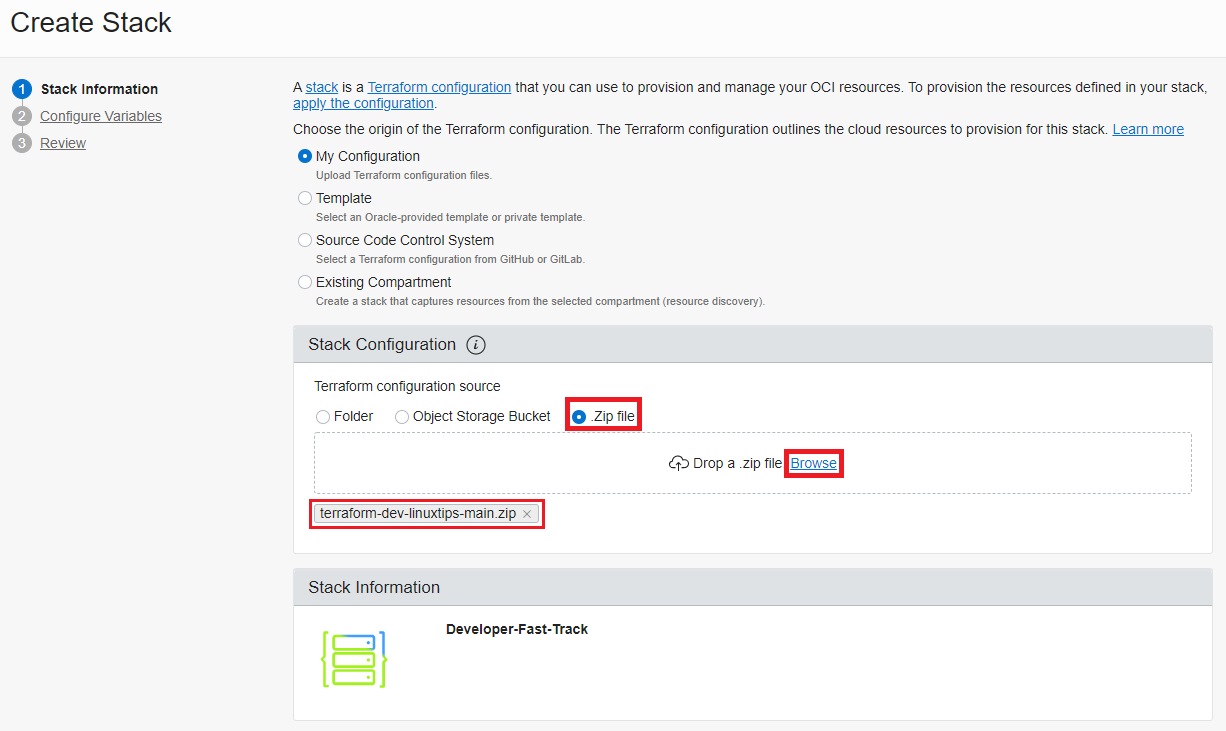
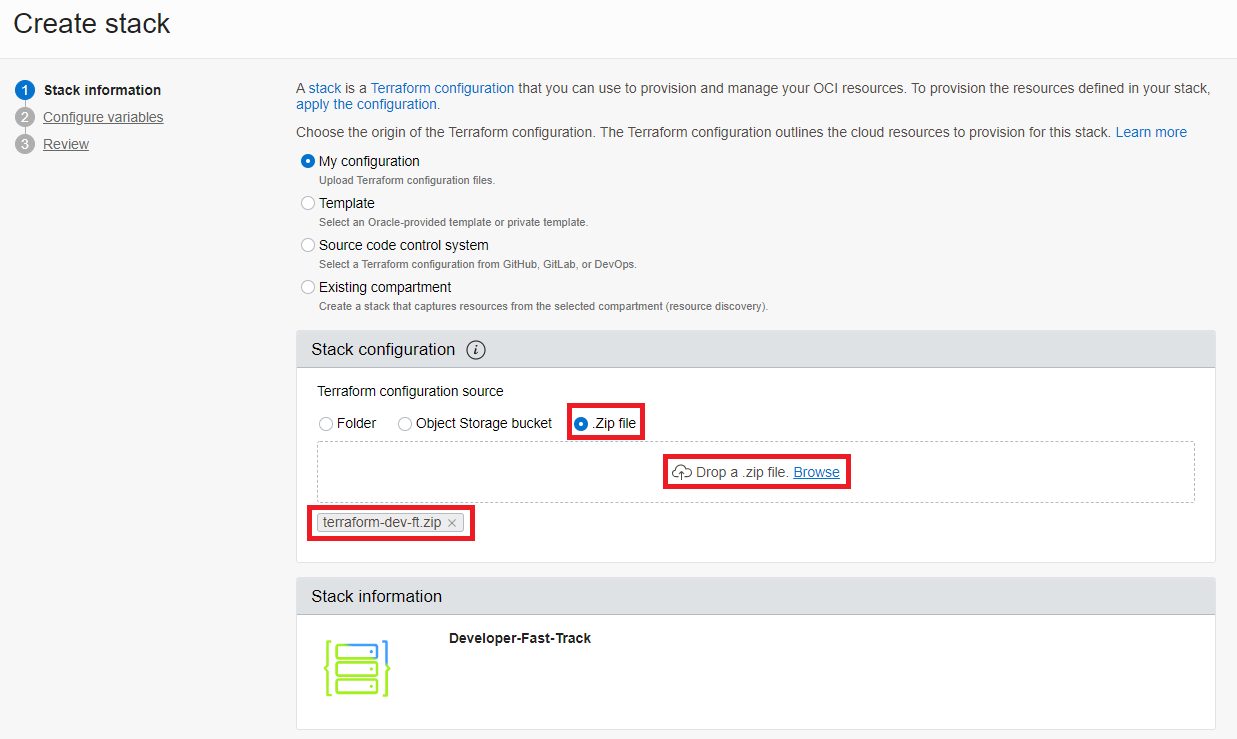
ajuste lab resource manager

diff --git a/Lab. #1 - Resource Provisioning/README.md b/Lab. #1 - Resource Provisioning/README.md
@@ -52,9 +52,8 @@ Excelente!!! Podemos agora iniciar com os passos do nosso lab!
 
 Como primeiro passo, devemos fazer o download do arquivo (zip) no repositório do github.
 
- 1. Para isso, acesse o [repositório](https://github.com/CeInnovationTeam/terraform-dev-linuxtips) e clique em **Download ZIP**.
+ 1. Para isso, acesse o [repositório](https://github.com/CeInnovationTeam/terraform-dev-ft) e clique em **Download ZIP**.
   
-
 ![](./images/IMG01.PNG)
 
 - - -
@@ -67,7 +66,7 @@ Como primeiro passo, devemos fazer o download do arquivo (zip) no repositório d
 
 ![](./images/IMG04_01.PNG)
 
-3. Nesta nova janela, certifique que está no compartment "root" e clique em **Create Stack**.
+3. Nesta nova janela, acesse o compartment criado previamente e clique em **Create Stack**.
 
 ![](./images/IMG05.PNG)
 
@@ -77,19 +76,23 @@ Como primeiro passo, devemos fazer o download do arquivo (zip) no repositório d
 
 5. Clique em **Next**, para podermos configurar alguns parâmetros sobre os recursos a serem provisionados.
 
-6. Nesta nova tela, lembre-se de selecionar o compartment criado, como abaixo.
+6. Nesta nova tela, lembre-se de selecionar o compartment criado, como abaixo e clicar em **Mostrar opções avançadas**.
 
 ![](./images/IMG02.PNG)
 
-7. Clique em **Next**.
+7. Antes de prosseguir, lembre-se de selecionar a versão "v1.23.4" na opção **Kubernetes Version**.
 
-8. Criada nossa stack, clique em **Apply** e confirme a ação.
+![](./images/IMG_OKE.PNG)
+
+8. Clique em **Next**.
+
+9. Criada nossa stack, clique em **Apply** e confirme a ação.
 
 ![](./images/IMG07.PNG)
 
-9. O provisionamento dos recursos deverá durar em torno de 25 minutos.
+10. O provisionamento dos recursos deverá durar em torno de 25 minutos.
 
-10. Após finalizar o Apply com sucesso, podemos conferir o provisionamento dos nossos recursos!
+11. Após finalizar o Apply com sucesso, podemos conferir o provisionamento dos nossos recursos!
 
 ### ✔ Ambientes provisionados com sucesso!!! Você provisionou recursos usando Terraform na OCI! 🚀
 
